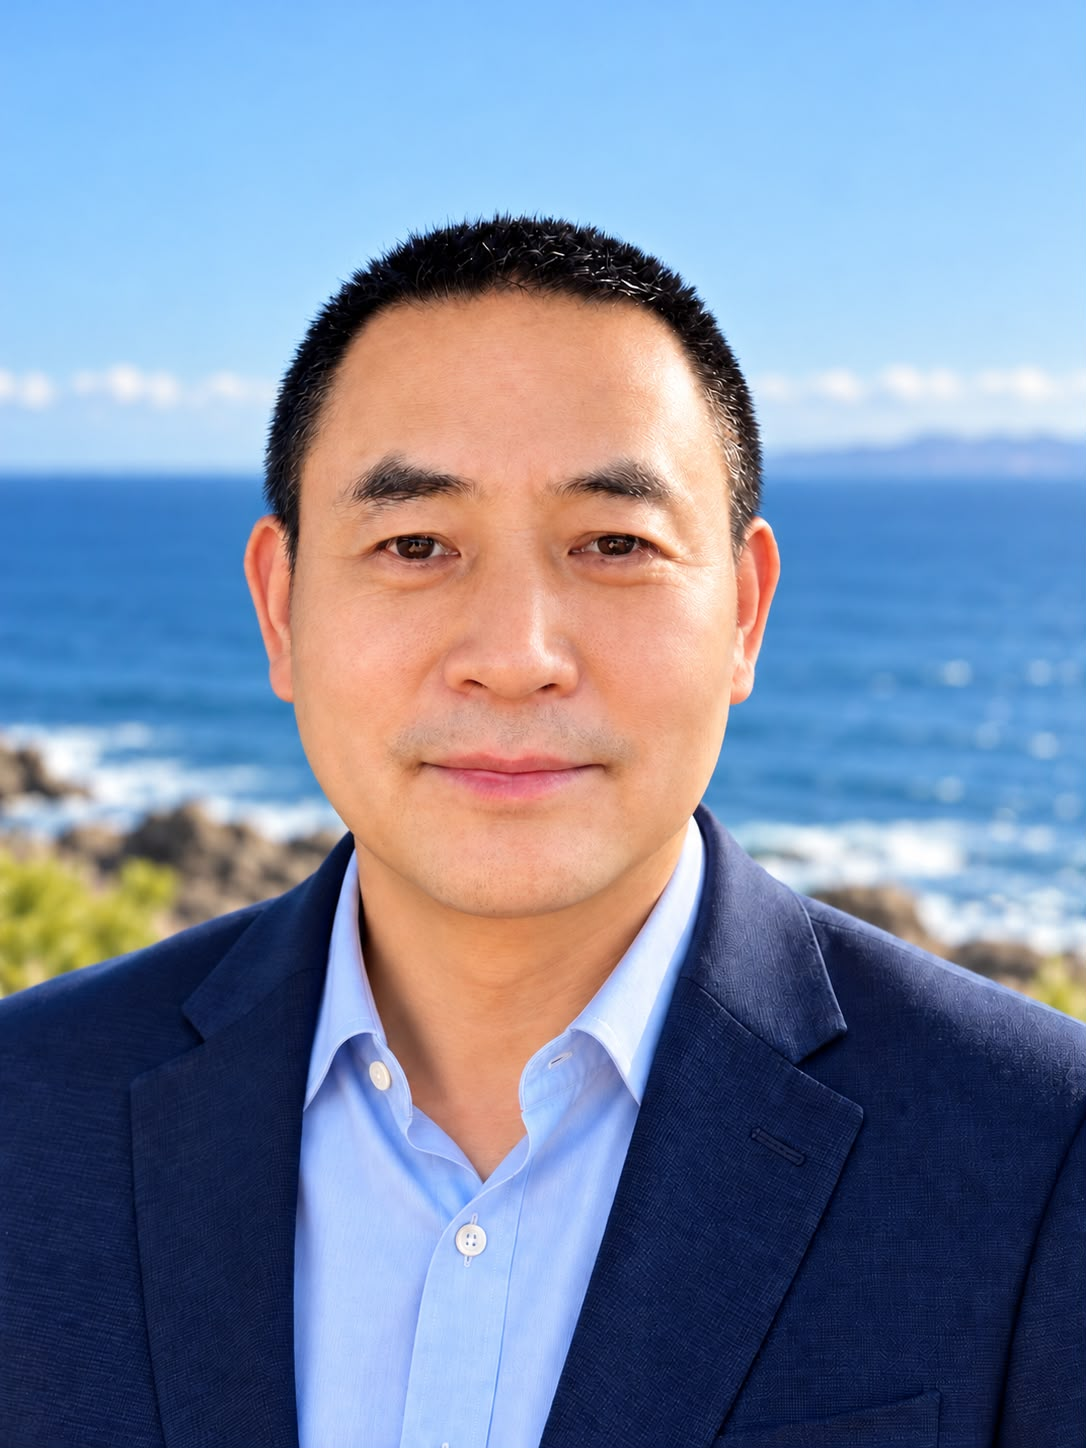
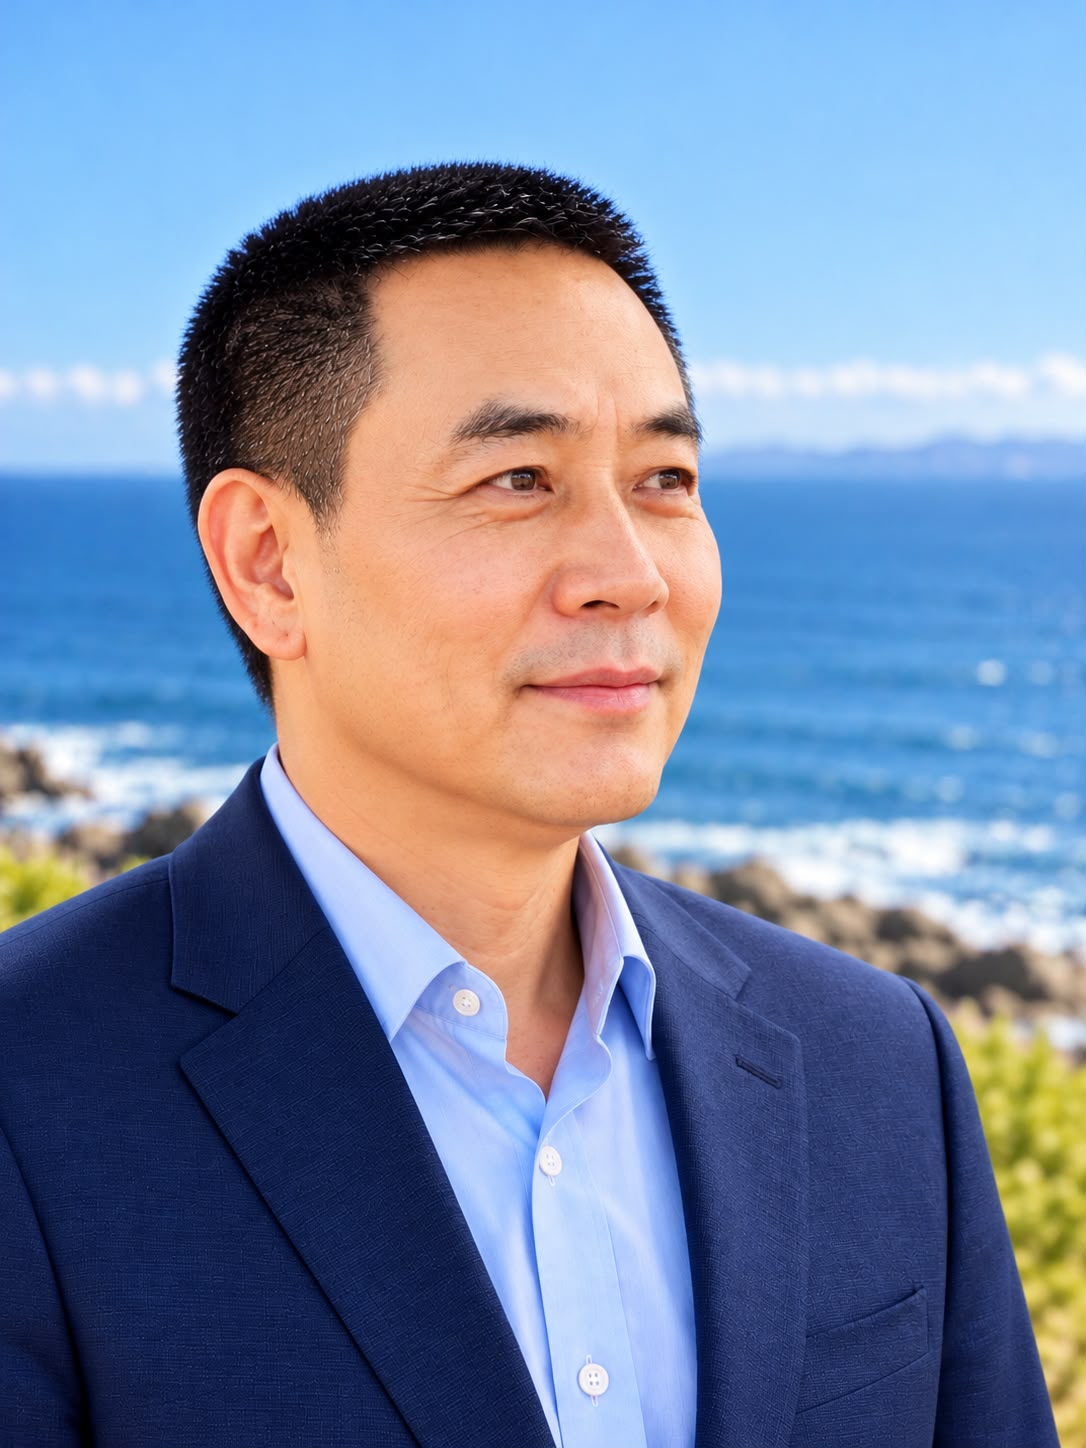
Update profile headshot

diff --git a/js/site.js b/js/site.js
@@ -15,7 +15,7 @@ const head=(k,t,p)=>`<div class="head"><div><div class="eyebrow">${k}</div><h2>$
 const activityHtml=Object.entries(activities).map(([k,v],i)=>`<details ${i===0?'open':''}><summary>${k} · ${v.length} records</summary><div class="detailbody"><ul>${v.map(x=>`<li>${x}</li>`).join('')}</ul></div></details>`).join('');
 const app=document.querySelector('#main');
 app.innerHTML=`
-<section id="home" class="hero"><div class="wrap hero-grid"><div><div class="eyebrow">IEEE Fellow</div><h1>Engineering intelligence for a <span>connected world.</span></h1><p class="lede">Honggang Wang is Professor and Founding Chair of Graduate Computer Science and Engineering at Yeshiva University. His research spans artificial intelligence, multimedia communications and processing, mobile and wireless networks, cybersecurity, Internet of Things, autonomous systems, and smart connected health.</p><div class="pills"><span class="pill">Editor-in-Chief, IEEE T-MM</span><span class="pill">Former EiC, IEEE IoT Journal</span><span class="pill">NAE Frontiers of Engineering Alumnus</span></div><div class="actions"><a class="btn" href="#research">Explore research →</a><a class="btn alt" href="#contact">Contact</a></div></div><aside class="portrait"><img class="portrait-photo" src="assets/honggang-headshot.jpg?v=20261031-1502" alt="Portrait of Professor Honggang Wang"><div class="role-card"><b>Professor & Founding Department Chair</b><small><a href="https://www.yu.edu/katz" target="_blank" rel="noopener">Katz College of Science and Health</a> · Yeshiva University · New York City</small></div></aside></div></section>
+<section id="home" class="hero"><div class="wrap hero-grid"><div><div class="eyebrow">IEEE Fellow</div><h1>Engineering intelligence for a <span>connected world.</span></h1><p class="lede">Honggang Wang is Professor and Founding Chair of Graduate Computer Science and Engineering at Yeshiva University. His research spans artificial intelligence, multimedia communications and processing, mobile and wireless networks, cybersecurity, Internet of Things, autonomous systems, and smart connected health.</p><div class="pills"><span class="pill">Editor-in-Chief, IEEE T-MM</span><span class="pill">Former EiC, IEEE IoT Journal</span><span class="pill">NAE Frontiers of Engineering Alumnus</span></div><div class="actions"><a class="btn" href="#research">Explore research →</a><a class="btn alt" href="#contact">Contact</a></div></div><aside class="portrait"><img class="portrait-photo" src="assets/honggang-headshot.jpg?v=20261031-1604" alt="Portrait of Professor Honggang Wang"><div class="role-card"><b>Professor & Founding Department Chair</b><small><a href="https://www.yu.edu/katz" target="_blank" rel="noopener">Katz College of Science and Health</a> · Yeshiva University · New York City</small></div></aside></div></section>
 <section><div class="wrap">${head('Profile','Academic leadership and impact','')}<div class="grid grid-4"><div class="card metric"><b>10K+</b><span>scholarly citations</span></div><div class="card metric"><b>57+</b><span>h-index</span></div><div class="card metric"><b>100+</b><span>graduate students supervised</span></div><div class="card metric"><b>12</b><span>Ph.D. graduates noted</span></div></div><div class="grid grid-2" style="margin-top:18px"><div class="card"><h3>Current roles</h3><p>Professor and Founding Chair, Department of Graduate Computer Science and Engineering; Editor-in-Chief of IEEE Transactions on Multimedia from 2026; affiliate faculty appointment at Albert Einstein College of Medicine noted for 2024–2025.</p></div><div class="card"><h3>Professional distinction</h3><p>IEEE Fellow, IEEE Distinguished Lecturer, NAE Frontiers of Engineering alumnus, former Editor-in-Chief of IEEE Internet of Things Journal, and former chair of IEEE multimedia communications and e-Health technical committees.</p></div></div></div></section>
 <section id="research"><div class="wrap">${head('Research','Research areas and current projects','')}<div class="grid grid-4">${[['🧠','AI & Machine Learning','On-device and edge AI, big data, trustworthy models, and intelligent systems.'],['🎬','Multimedia','Multimedia communications, processing, security, semantic video, and deepfake research.'],['📡','Wireless Networks','Mobile networks, mmWave communications, next-generation wireless systems, and cooperative perception.'],['🫀','Connected Health','IoT, wireless body-area networks, wearable sensing, security, privacy, and biomedical analytics.']].map(x=>`<article class="card">${icon(x[0])}<h3>${x[1]}</h3><p>${x[2]}</p></article>`).join('')}</div><div class="grid grid-3" style="margin-top:22px"><article class="card project"><h3>Secure and Smart Connected Health</h3><p>Research on wireless body-area networks and biomedical sensing addresses performance, continuous physiological-data analytics, predictive modeling, secure transmission, and privacy in mobile healthcare environments.</p><div class="tags"><span class="tag">WBAN</span><span class="tag">mHealth</span><span class="tag">Security</span></div></article><article class="card project"><h3>Cooperative Perception for Autonomous Vehicles</h3><p>Machine-learning-based cooperative perception and mmWave data exchange extend vehicle field of view, mitigate occlusion and blind spots, and improve road safety and traffic efficiency.</p><div class="tags"><span class="tag">mmWave</span><span class="tag">V2V</span><span class="tag">Perception</span></div></article><article class="card project"><h3>Fuzzy Clustering for Distributed Big Data</h3><p>Computationally efficient fuzzy clustering for distributed, non-normal, high-dimensional and incomplete data, with theory, algorithms, simulations, and real-data validation.</p><div class="tags"><span class="tag">Big Data</span><span class="tag">Fuzzy AI</span><span class="tag">Distributed Systems</span></div></article></div></div></section>
 <section id="activities"><div class="wrap">${head('Service','Professional Activities','')} ${activityHtml}</div></section>
